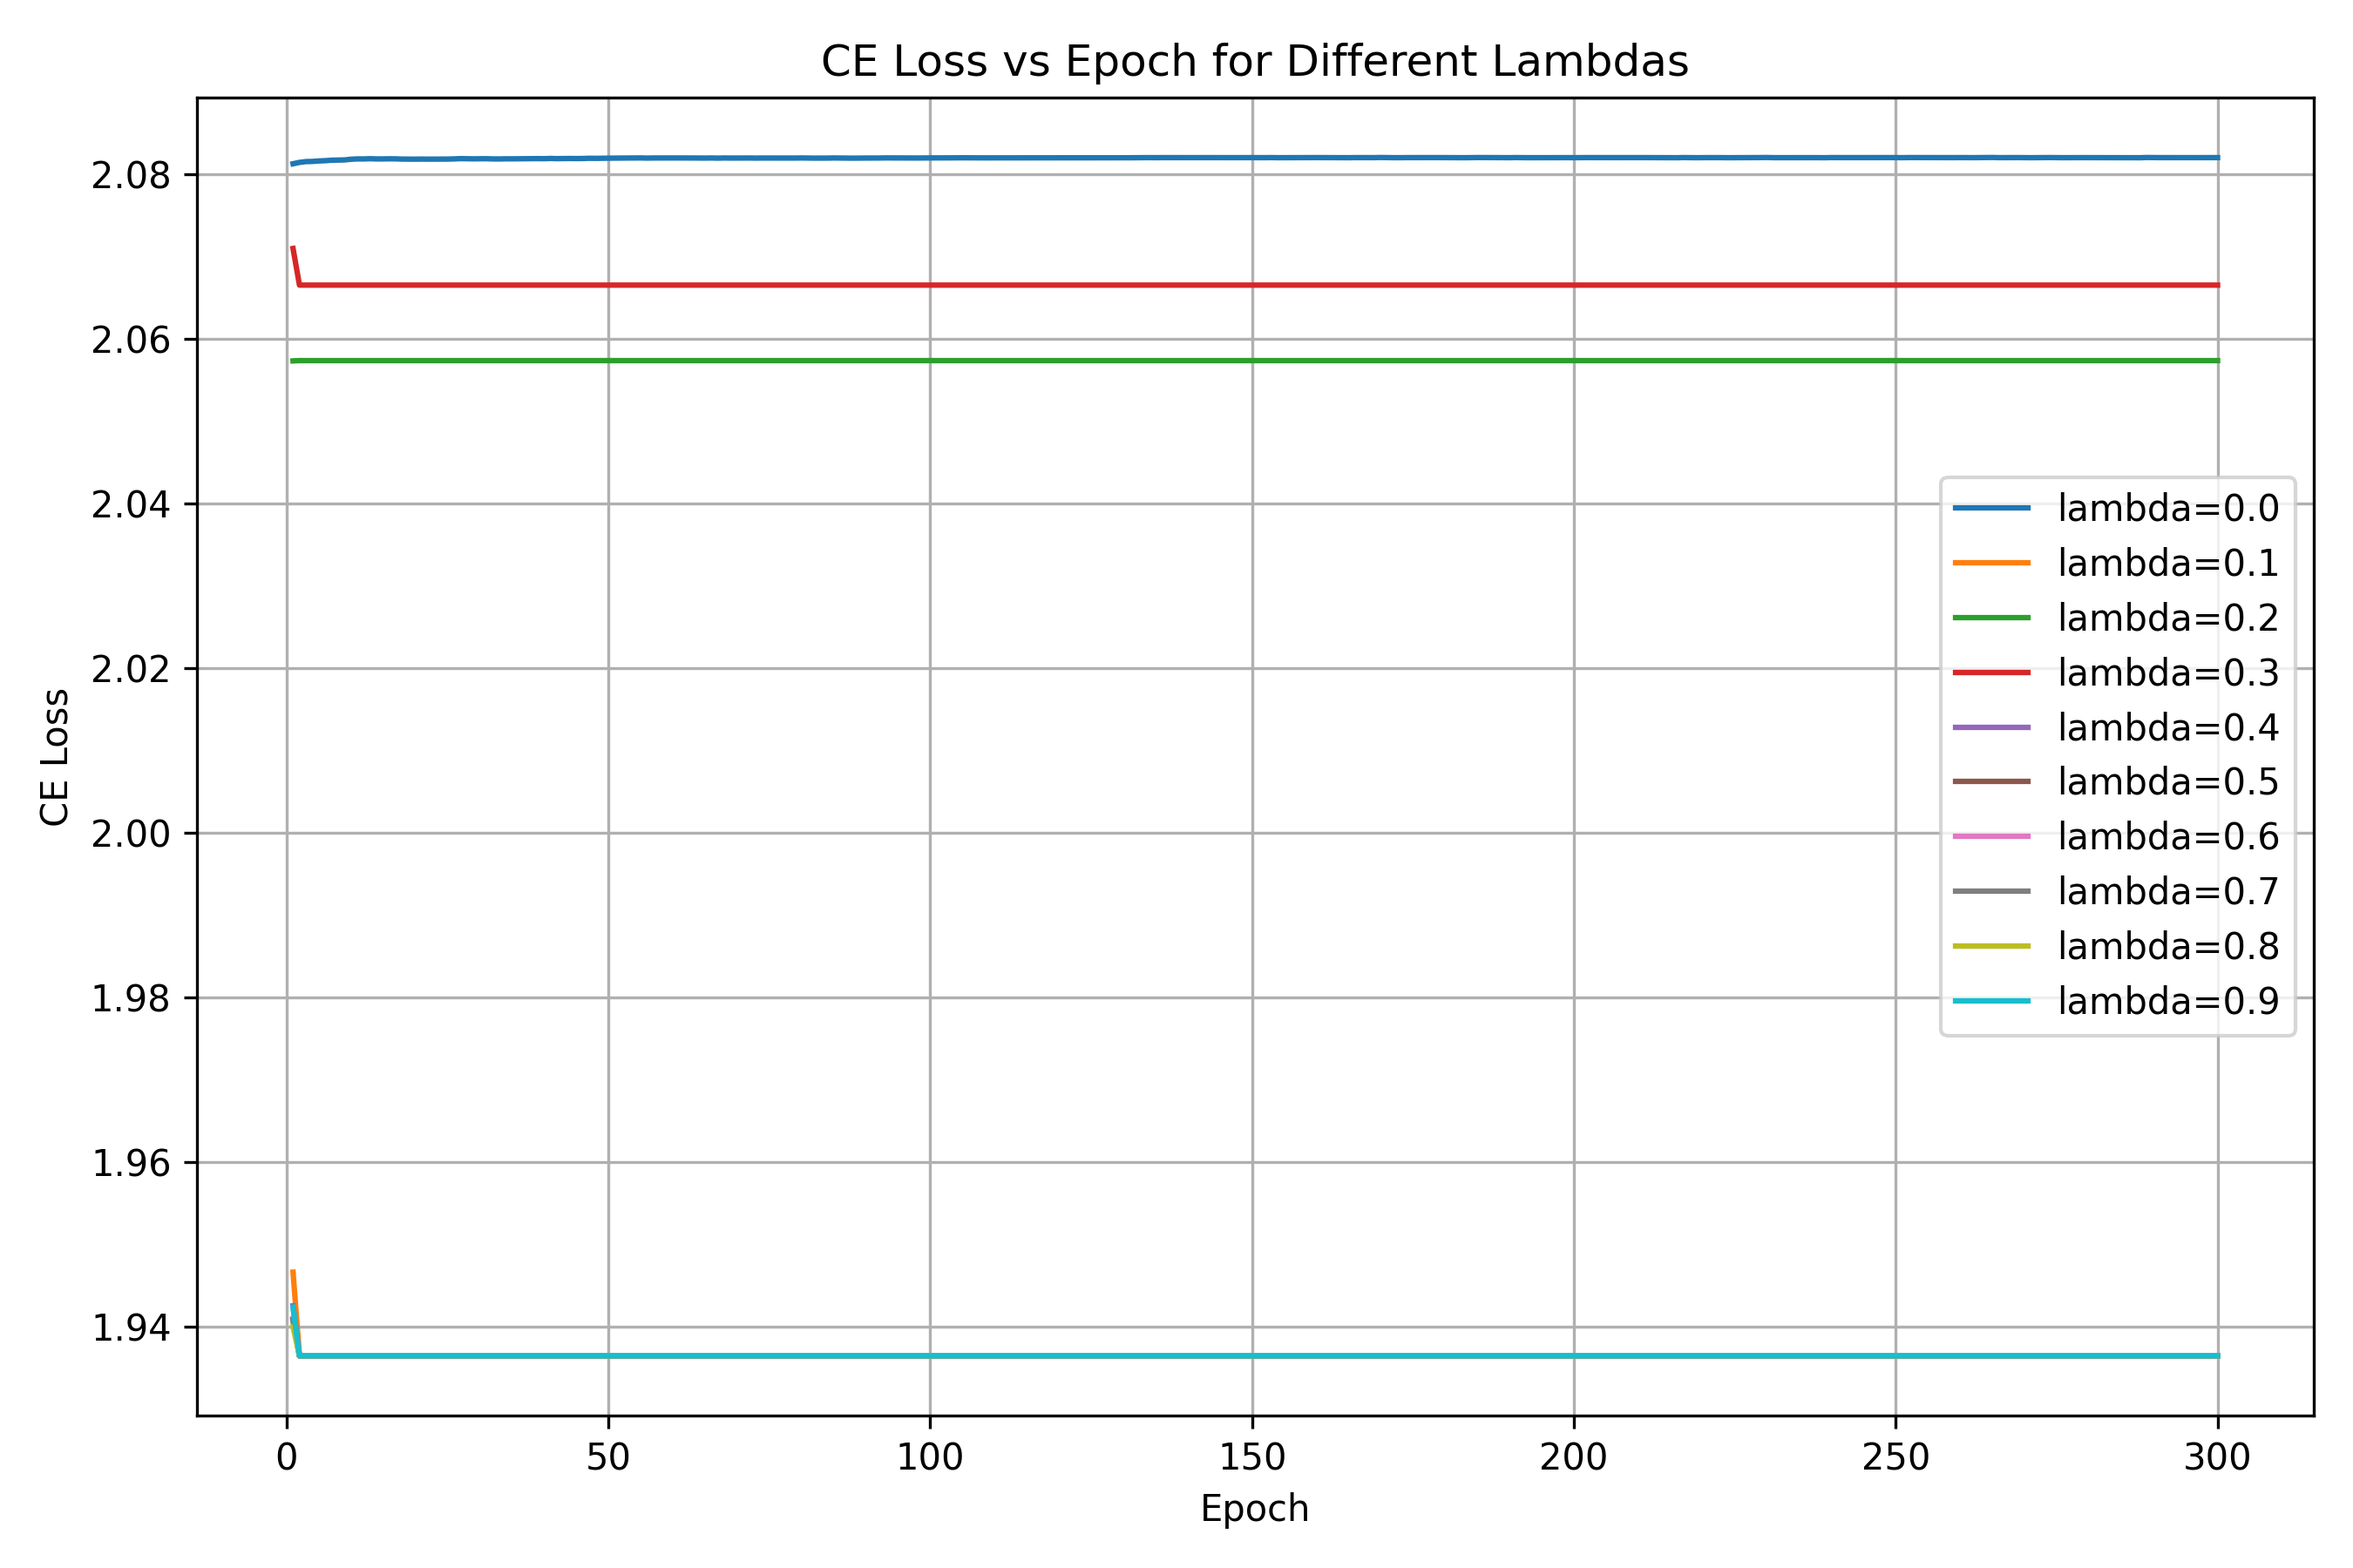
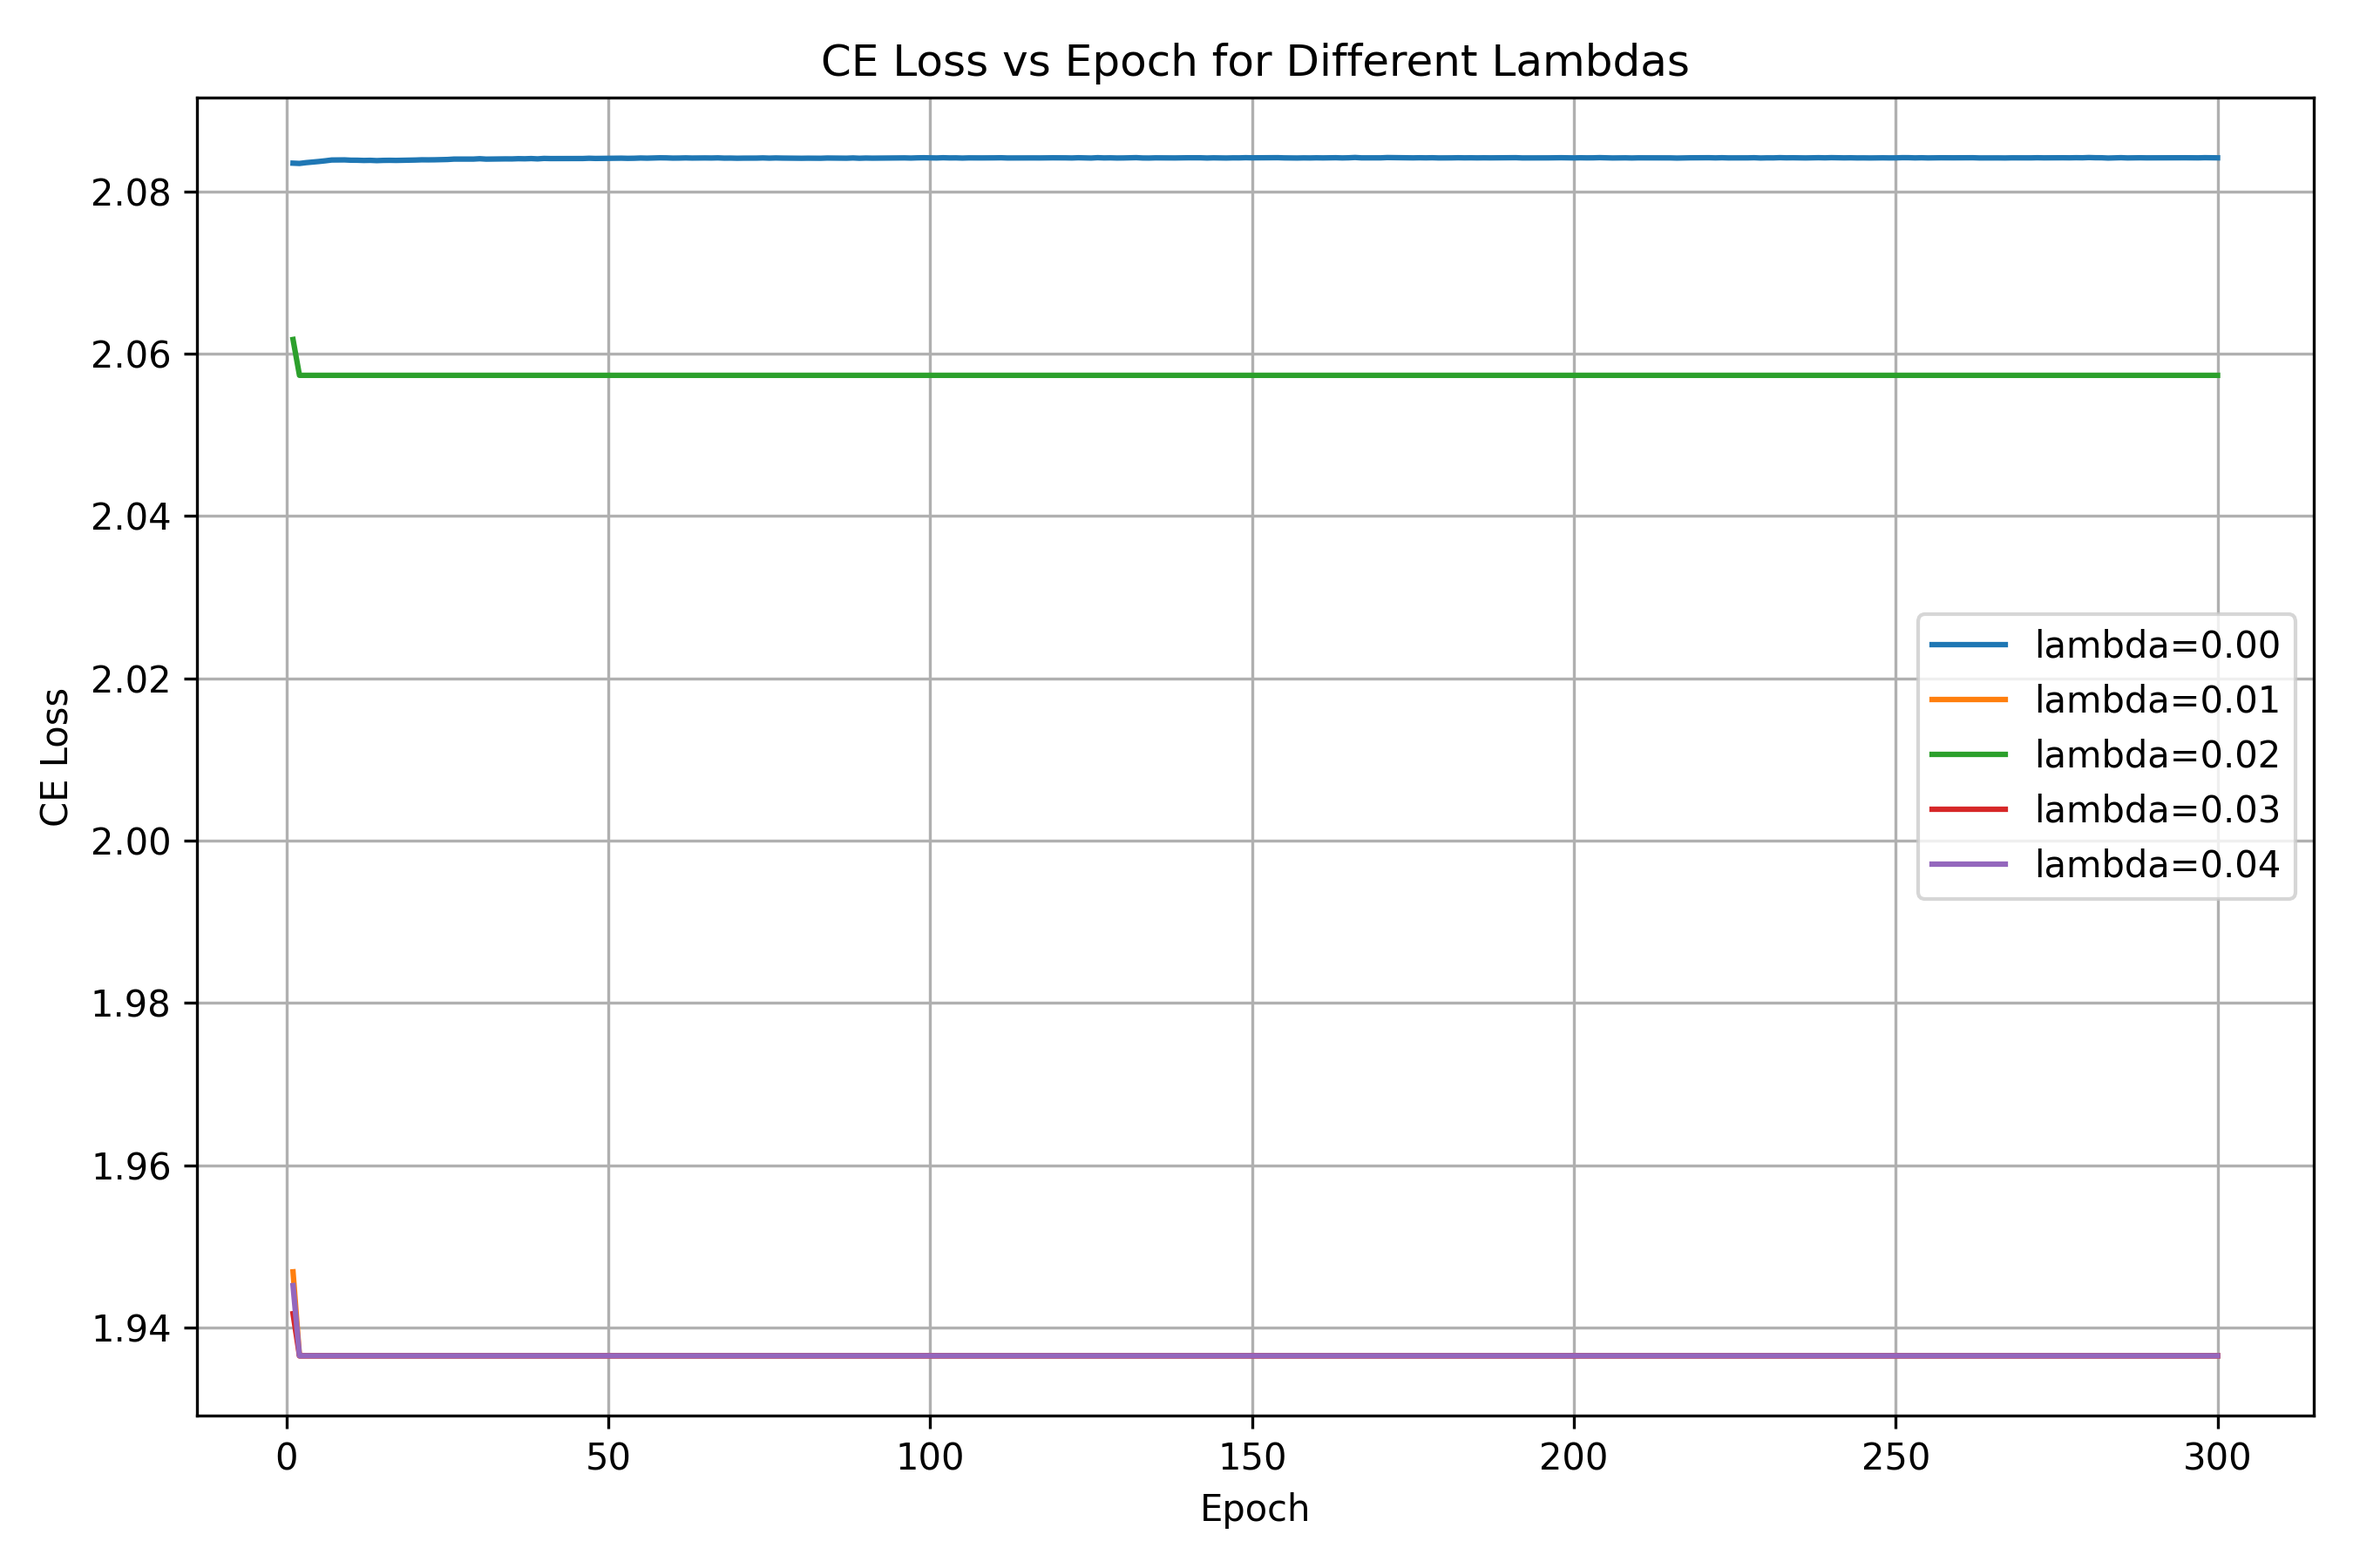
some modification of the loss that is now diffrent

diff --git a/src/testing/data_plotting/data_autoencoder_hyperParams.py b/src/testing/data_plotting/data_autoencoder_hyperParams.py
@@ -10,7 +10,7 @@ OUT_DIR.mkdir(exist_ok=True)
 with open(FILE_PATH, "r") as f:
     data = json.load(f)
 
-lambdas = [0.1 * i for i in range(len(data))]
+lambdas = [0.01 * i for i in range(len(data))]
 
 metrics = ["total", "mse", "ce"]
 
@@ -26,10 +26,10 @@ for run_idx, run in enumerate(data):
         plt.plot(epochs, values)
         plt.xlabel("Epoch")
         plt.ylabel(metric.upper() + " Loss")
-        plt.title(f"{metric.upper()} Loss vs Epoch | lambda = {lam:.1f}")
+        plt.title(f"{metric.upper()} Loss vs Epoch | lambda = {lam:.2f}")
         plt.grid(True)
         plt.tight_layout()
-        plt.savefig(OUT_DIR / f"{metric}_lambda_{lam:.1f}.png", dpi=300)
+        plt.savefig(OUT_DIR / f"{metric}_lambda_{lam:.2f}.png", dpi=300)
         plt.show()
 
 # Combined comparison plots
@@ -40,7 +40,7 @@ for metric in metrics:
         lam = lambdas[run_idx]
         epochs = np.arange(1, len(run) + 1)
         values = [epoch_data[metric] for epoch_data in run]
-        plt.plot(epochs, values, label=f"lambda={lam:.1f}")
+        plt.plot(epochs, values, label=f"lambda={lam:.2f}")
 
     plt.xlabel("Epoch")
     plt.ylabel(metric.upper() + " Loss")
@@ -62,7 +62,7 @@ for metric in metrics:
         lambda_values = np.full_like(epochs, lam, dtype=float)
         losses = np.array([epoch_data[metric] for epoch_data in run])
 
-        ax.plot(epochs, lambda_values, losses, label=f"lambda={lam:.1f}")
+        ax.plot(epochs, lambda_values, losses, label=f"lambda={lam:.2f}")
 
     ax.set_xlabel("Epoch")
     ax.set_ylabel("Lambda")

diff --git a/src/testing/autoencoder_training.py b/src/testing/autoencoder_training.py
@@ -244,7 +244,7 @@ def train_contrasitve_model(epoch_count, dataLoader, weight_L):
             loss_mse = mse_loss(output_autoencoder, images)
             loss_ce = ce_loss(output_classifier, labels)
 
-            loss = loss_mse + weight_L * loss_ce
+            loss = weight_L * loss_mse + loss_ce
 
             optimizer_autoencoder.zero_grad()
             optimizer_classifier.zero_grad()
